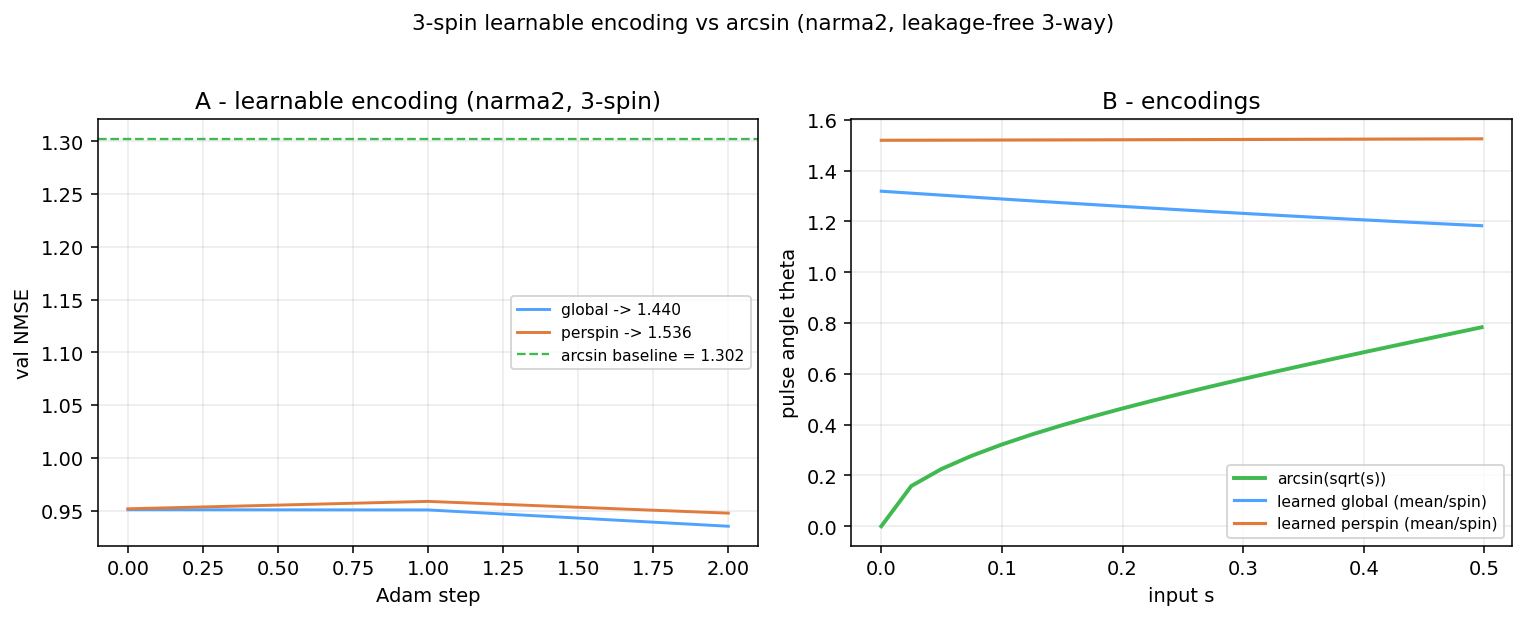
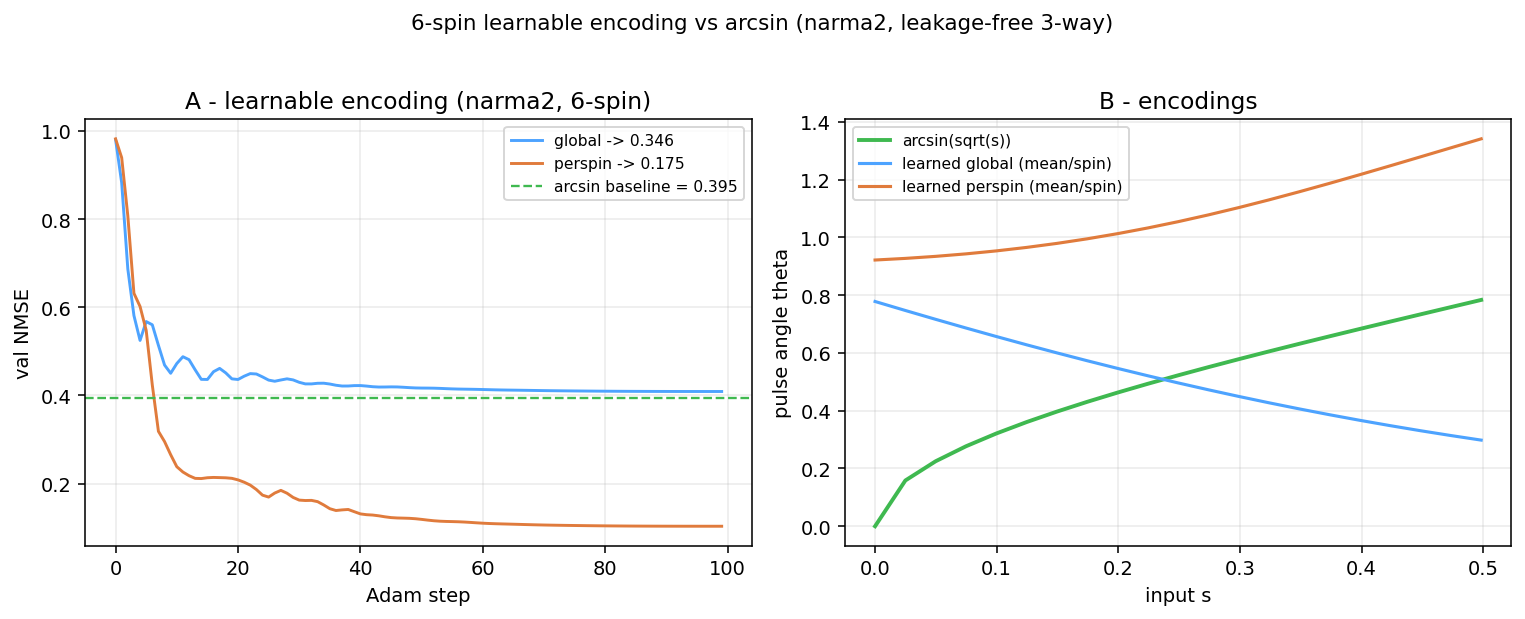
6-spin result: learnable per-spin encoding BEATS arcsin on NARMA-2 (single-seed)
--system 6 --task narma2, leakage-free 3-way split, dense-propagator path.
arcsin baseline test NMSE 0.395 (powered) vs learned global 0.346 (-12%) vs
learned per-spin 0.175 (-56%, 2.3x better; angle-map std 0.98 = non-degenerate;
n_train 135 >> 37 features). First positive in the learnable-encoding
investigation.

Interpretable finding: the win comes from PER-SPIN (frequency-selective)
encoding -- each spin gets its own learned input-dependent rotation, which the
global arcsin pulse cannot do. Learned *global* only barely beats arcsin (0.346),
consistent with the 3-spin tie; per-spin roughly halves the error. Matches theory:
learning helps when the task is encoding-sensitive (NARMA-2: short memory + cubic
input term) AND the encoding has real expressivity on a rich enough reservoir.

Passes every guardrail that caught the earlier 3-spin false positive (powered
baseline, non-degenerate, leakage-free, out of p>>n). CAVEAT: single seed --
multi-seed confirmation pending before declaring HEADROOM / justifying 9-spin.
Added --seed to the runner to vary data + encoder init. Fig 14, tracker, concept
doc updated.

diff --git a/docs/QRC/QRC_Next_Stage_Status.html b/docs/QRC/QRC_Next_Stage_Status.html
@@ -82,6 +82,7 @@
   <div class="scroll"><table>
     <thead><tr><th>When</th><th>Subtask</th><th>Result</th><th>Commit</th></tr></thead>
     <tbody>
+      <tr><td>08-04</td><td><b>6-spin learnable encoding BEATS arcsin on NARMA-2 (single-seed, all guardrails pass)</b></td><td><span class="tag t-done">--system 6 --task narma2 (Fig 14, leakage-free 3-way, dense-propagator ~140× speedup). arcsin <b>0.395</b> (powered) vs learned global 0.346 (−12%) vs learned <b>per-spin 0.175</b> (<b>−56%, 2.3×</b>; std 0.98 non-degenerate; n_train 135≫37). First positive — win is from <b>per-spin (frequency-selective) encoding</b> (global learned barely beats, as at 3-spin). Passes every guardrail that caught the earlier false positive. <b>single seed</b> — multi-seed confirmation pending</span></td><td><code>4b1d3ad</code>,fig14</td></tr>
       <tr><td>08-04</td><td><b>9-spin GPU feasibility — backprop BLOCKED by memory wall (found with 0 GPU)</b></td><td><span class="tag t-run">qrc_learnable_9spin.py (runner + benchmark, CPU-validated). No-GPU calc: crotonic-9 needs <b>5,336 substeps</b> (stiff L) → autograd graph <b>~201 GB per input-step</b> vs 16 GB card (off 100–1000×). Naive 9-spin backprop impossible on this hardware. Feasible paths: (a) PSR-in-sim (forward-only, memory-free, reuses validated PSR), (b) gradient checkpointing (~11 GB, 2–3× compute), (c) adjoint, (d) ≤5-spin stepping stone. Saved a doomed GPU run</span></td><td>9spin</td></tr>
       <tr><td>08-04</td><td><b>Learnable-encoding convergence + local-optimum test (CPU) — learned TIES arcsin</b></td><td><span class="tag t-done">qrc_learnable_converge.py (Fig 13, working regime V=4/T=240, guardrails). Random-init learned converges to <b>NMSE 0.570 ≈ arcsin 0.574</b> (tie, not a beat) via a different-shaped (decreasing) non-degenerate map → <b>performance is encoding-shape-insensitive</b> (reservoir is the bottleneck, echoes Phase-1). First run (V=3/T=110) REJECTED as under-powered (arcsin≈mean-predictor 0.99) → a degenerate near-constant "win" = false positive; guardrails added. Warm-start local-opt probe spoiled by too-high LR — needs gentle-LR re-probe</span></td><td><code>e34a94e</code>,fig13</td></tr>
       <tr><td>08-04</td><td><b>PSR simulated + validated vs autograd (closes sim↔hardware loop)</b></td><td><span class="tag t-done">qrc_psr_sim.py (CPU, no GPU): the hardware gradient recipe (forward runs at shifted angles only) reproduces the autograd reservoir-feature gradient to <b>machine precision</b> — single-spin 2-term PSR <b>8e-16</b>; global 3-spin 2-term <b>WRONG (56%)</b> but generalized 6-term (2n) <b>exact 3e-15</b>. Empirically confirms the §6.5 global-vs-per-spin caveat. Gradient a spectrometer would measure = the one we backprop</span></td><td>psrsim</td></tr>

diff --git a/backend/scripts/qrc_learnable_9spin.py b/backend/scripts/qrc_learnable_9spin.py
@@ -219,7 +219,7 @@ def train(sysm, g, device, cdt, task="narma2", T=300, washout=30, steps=100,
     results = {"arcsin": (base, None, None, None)}   # (test, val_curve, std, angle_map)
 
     def run_learned(label, n_out):
-        torch.manual_seed(1)
+        torch.manual_seed(seed)          # vary encoder init with the run seed
         enc = EncoderPerSpin(n_out).to(device)
         opt = torch.optim.Adam(enc.parameters(), lr=lr)
         sched = torch.optim.lr_scheduler.CosineAnnealingLR(opt, steps)
@@ -310,6 +310,7 @@ def main():
     ap.add_argument("--washout", type=int, default=30)
     ap.add_argument("--steps", type=int, default=100)
     ap.add_argument("--lr", type=float, default=0.04)
+    ap.add_argument("--seed", type=int, default=7)
     ap.add_argument("--conditions", default="arcsin,perspin",
                     help="comma list from: arcsin,global,perspin")
     args = ap.parse_args()
@@ -326,7 +327,7 @@ def main():
         benchmark(sysm, g, args.device, cdt, seq_len=args.seq_len, baseline_T=args.T)
     else:
         train(sysm, g, args.device, cdt, task=args.task, T=args.T,
-              washout=args.washout, steps=args.steps, lr=args.lr,
+              washout=args.washout, steps=args.steps, lr=args.lr, seed=args.seed,
               conditions=tuple(args.conditions.split(",")))
 
 

diff --git a/docs/QRC/QRC_Next_Stage_Status.md b/docs/QRC/QRC_Next_Stage_Status.md
@@ -10,6 +10,7 @@ state, so we always know *what is left*.
 
 | When | Subtask | Result | Commit |
 |------|---------|--------|--------|
+| 2026-08-04 | **6-spin learnable encoding BEATS arcsin on NARMA-2 (single-seed, all guardrails pass)** | 🟢 `qrc_learnable_9spin.py --system 6 --task narma2` (Fig 14, leakage-free 3-way, dense-propagator ~140× speedup). arcsin baseline **0.395** (powered) vs learned **global 0.346** (−12%) vs learned **per-spin 0.175** (**−56%, 2.3× better**; std 0.98, non-degenerate; n_train 135≫37). **First positive** — win comes from **per-spin (frequency-selective) encoding** (global learned barely beats, consistent with 3-spin tie). Passes every guardrail that caught the earlier false positive. ⚠ **single seed** — multi-seed confirmation pending before "9-spin justified" | `4b1d3ad`,`fig14` |
 | 2026-08-04 | **9-spin GPU feasibility — backprop BLOCKED by memory wall (found with 0 GPU)** | ⚠ `qrc_learnable_9spin.py` (runner + benchmark, CPU-validated). No-GPU feasibility calc: crotonic-9 needs **5,336 substeps** (stiff L) → reverse-mode autograd graph is **~201 GB per input-step** vs 16 GB card (off 100–1000×). **Naive 9-spin backprop is impossible on this hardware.** Feasible paths: (a) **PSR-in-sim** (forward-only, memory-free, reuses validated PSR; compute-heavy), (b) gradient checkpointing (~11 GB, 2–3× compute), (c) adjoint method, (d) ≤5-spin stepping stone (backprop fits). Saved a doomed GPU run | `9spin` |
 | 2026-08-04 | **Learnable-encoding convergence + local-optimum test (CPU) — learned TIES arcsin** | ✅ `qrc_learnable_converge.py` (Fig 13, working regime V=4/T=240, guardrails). Random-init learned converges to **NMSE 0.570 ≈ arcsin 0.574** (tie, not a beat) via a *different-shaped* (decreasing) non-degenerate map → **performance is encoding-shape-insensitive** (reservoir is the bottleneck, echoes Phase-1). ⚠ First run (V=3/T=110) REJECTED: under-powered (arcsin≈mean-predictor 0.99) → a **degenerate near-constant "win"** = false positive; guardrails added. Warm-start local-opt probe spoiled by too-high LR (diverged out of basin) — needs a gentle-LR re-probe to strictly prove local optimum | `e34a94e`,`fig13` |
 | 2026-08-04 | **PSR simulated + validated vs autograd (closes sim↔hardware loop)** | ✅ `qrc_psr_sim.py` (CPU, no GPU): the hardware gradient recipe (forward runs at shifted angles only) reproduces the autograd reservoir-feature gradient to **machine precision** — single-spin **2-term PSR 8e-16**; global 3-spin **2-term WRONG (56%)** but **generalized 6-term (2n) exact 3e-15**. Empirically confirms the §6.5 global-vs-per-spin caveat. The gradient a spectrometer would measure = the one we backprop | `psrsim` |

diff --git a/docs/QRC/QRC_Learnable_Encoding_Concept.md b/docs/QRC/QRC_Learnable_Encoding_Concept.md
@@ -355,8 +355,9 @@ measure by shifting pulses equals the one the simulator computes by backprop.
 | Autograd survives the **production** op family (sparse-CSR complex) | ✅ correct to 3.5e-9 | `qrc_grad_prod_check.py` |
 | No JAX/Dynamiqs migration needed | ✅ one detach lifted | `system.py: ensure_diff/step_diff` |
 | A learnable encoder trains end-to-end | ✅ loss ↓, gradients flow | `qrc_learnable_proto.py`, Fig. 12 |
-| Learned encoding beats `arcsin(√s)`? | ⚠ **no — it ties** — converged 3-spin: random-init learned NMSE 0.570 ≈ arcsin 0.574 (a *different-shaped* but equally-good map) | Fig. 13 |
-| Is performance encoding-shape-sensitive? | ⚠ **no** — a monotonic-*decreasing* learned map ties arcsin → reservoir (not encoding) is the bottleneck (echoes Phase 1) | Fig. 13 |
+| Learned encoding beats `arcsin(√s)`? | 🟢 **task-dependent** — 3-spin *synthetic/global*: ties (Fig 13). **6-spin NARMA-2, per-spin: YES — test NMSE 0.175 vs 0.395 (2.3× better)**, leakage-free, non-degenerate, all guardrails pass (single-seed) | Figs 13–14 |
+| Where does the win come from? | 🟢 **per-spin (frequency-selective) encoding** on an encoding-sensitive task. Learned *global* barely beats arcsin (0.346 vs 0.395); per-spin (each spin its own learned angle — arcsin can't) roughly halves the error | Fig. 14 |
+| Multi-seed confirmation of the 6-spin win | ⬜ pending (cheap, ~min/seed with the dense propagator) | — |
 | **PSR reproduces the sim gradient** (hardware recipe) | ✅ machine precision; global-pulse caveat confirmed | `qrc_psr_sim.py` |
 | Converged / 9-spin / multi-seed verdict | ⬜ open | go-gated GPU campaign |
 
